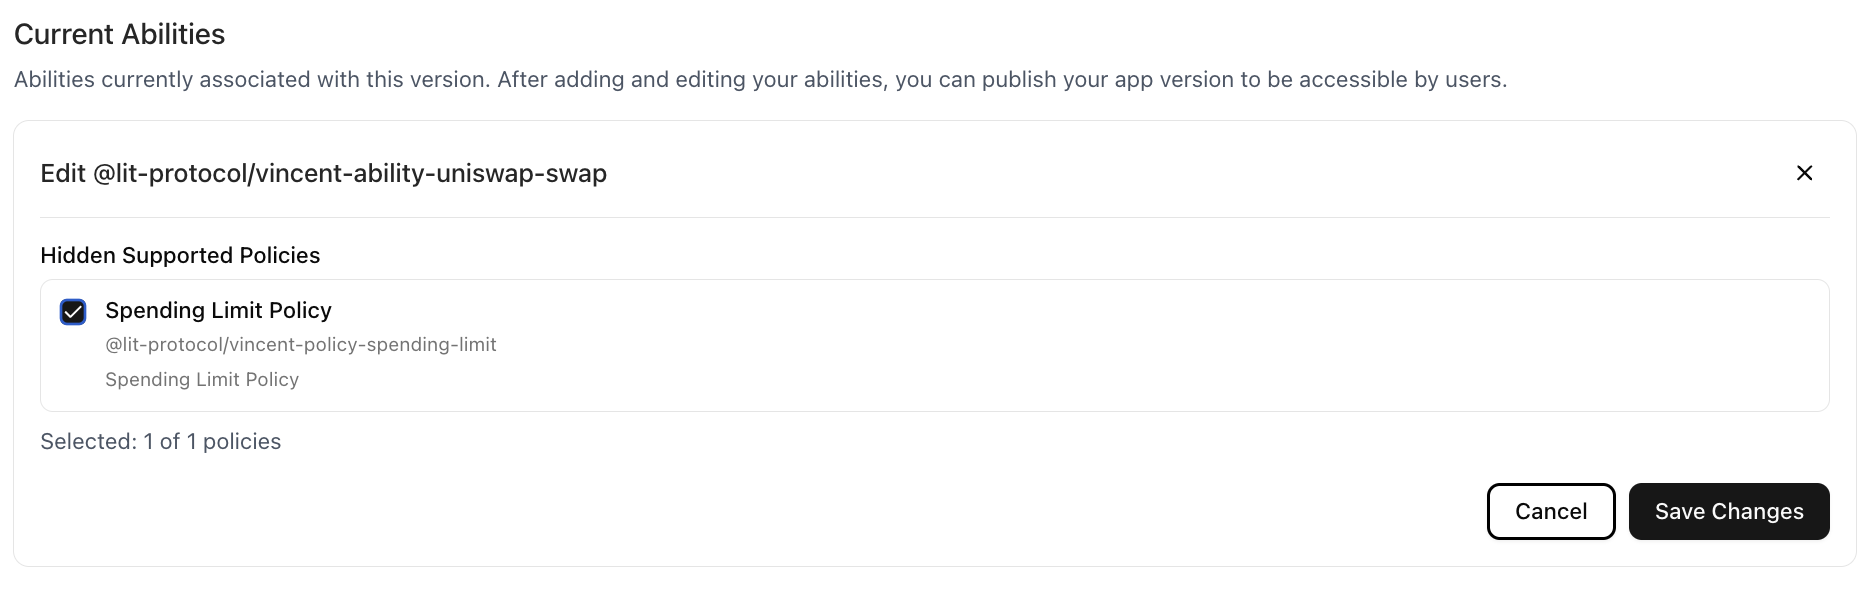
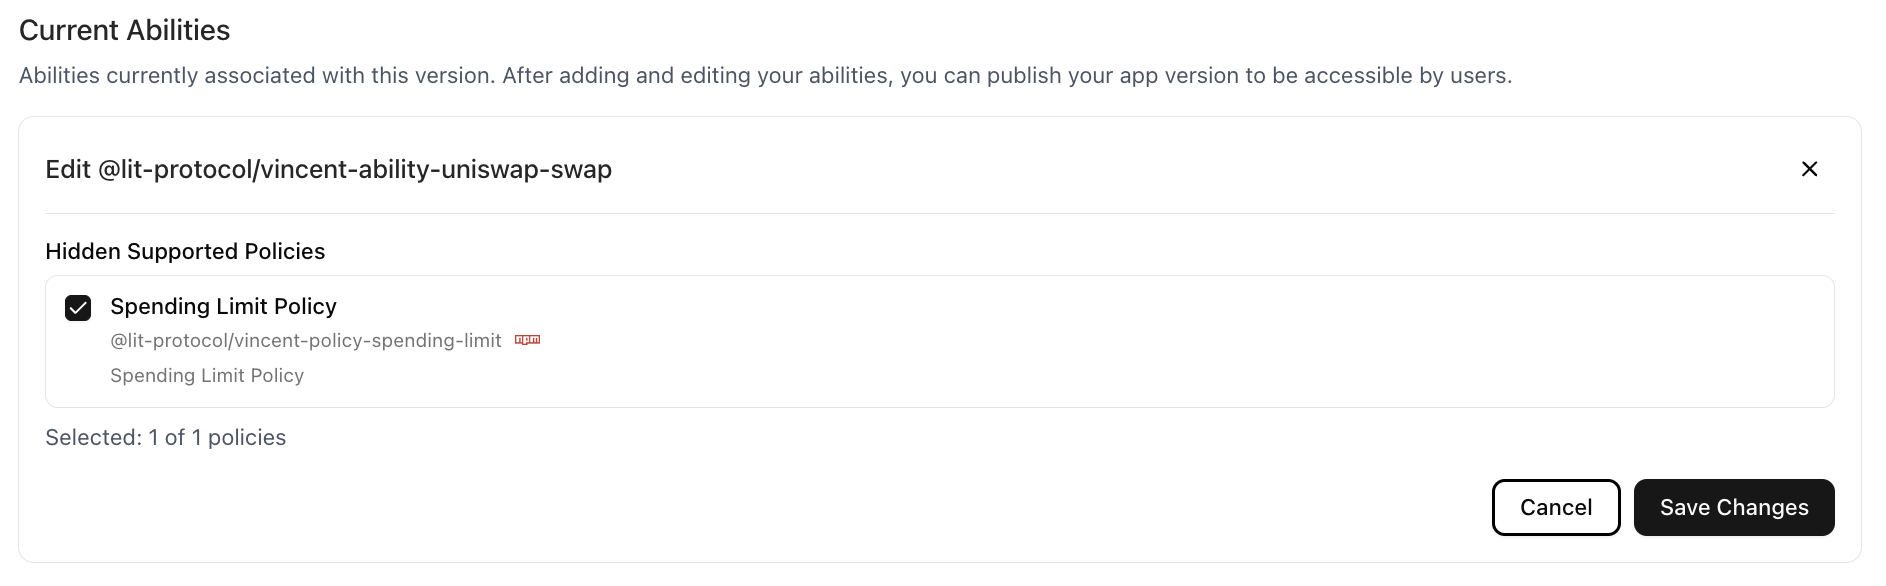
docs: refactor Upgrading Apps page and other formattings

diff --git a/docs/src/Developers/App-Agent-Developers/Upgrading-Apps.md b/docs/src/Developers/App-Agent-Developers/Upgrading-Apps.md
@@ -9,7 +9,7 @@ Vincent Apps are versioned to guarantee trust and transparency. Once a Vincent A
 
 ### Why This Matters
 
-Vincent Users don’t just delegate to your App, they delegate to a specific App Version. This Version defines the exact set of Abilities and Policies that your App can execute on their behalf, and can never be changed. This gives your Users confidence that the set of Abilities they've authorized, and are governing with their configured Policies, will never change without their explicit consent.
+Vincent Users don’t just delegate to your App, they delegate to a specific App Version. This Version defines the exact set of Abilities and Policies that your App can execute on their behalf, and can never be changed. This gives your Users confidence that the set of Abilities they've authorized, and the guardrails they've configured with Policies, will never change without their explicit consent.
 
 # When Should You Create a New Version?
 
@@ -26,87 +26,92 @@ There are some parts of your Vincent App that you can change without creating a 
 - The App Delegatees that are authorized to execute your App's Abilities for all App Versions
 - The authorized redirect URIs Users can be redirected to after they've authorized your App via the Vincent Connect page
 - The current Deployment Status of your App
+- App details like the name, description, and logo
 
 # How App Versioning Works
 
-Each Version of your App is stored on-chain in the Vincent App Registry smart contract, with no ability to modify the Version once it's been published to the Registry.
+Each App Version includes a finite list of Vincent Abilities the App can execute on behalf of Users that authorize the App Version, as well as the enabled Vincent Policies for each Ability that are used to govern the execution of the Abilities.
 
-Each App Version includes:
+App Versions have a two step flow before they're available to be delegated to by your Vincent App Users:
 
-- A finite list of Vincent Abilities the App can execute on behalf of Users that authorize the App Version
-- Each Policy that's available to be used with the App's selected Abilities, along with the Policy parameters that Users can configure
-
-> **Note:** Once published, App Versions cannot be modified. If you need to make any changes, you'll need to publish a new Version.
+1. **Create the App Version** - Covered further in the [Creating a New Version](#creating-a-new-version) section, this step initializes a new App Version off-chain, allowing you to specify the Vincent Abilities and their enabled Policies to be used by the Version.
+   - While the Version is saved only in the Vincent off-chain database, you are able to make changes to it's associated Abilities and enabled Policies.
+2. **Publish the App Version** - This step registers the App Version on-chain in the Vincent App Registry, making it available to be set as your Vincent App's currently active App Version, so your Vincent App Users can start delegating to it.
+   - Once published, the App Version is immutable and it's set of Abilities and Policies cannot be modified. If you need to make any changes, you'll need to create and publish a new Version.
 
 # Creating a New Version
-
-<div class="box info-box">
-  <p class="box-title info-box-title">
-    <span class="box-icon info-icon">Info</span> Before creating a new App Version
-  </p>
-  <p>Creating a new App Version requires that you have tokens on Lit Protocol's Yellowstone blockchain to pay for gas. You can use <a href="https://chronicle-yellowstone-faucet.getlit.dev/">this faucet</a> to get the Lit test tokens used to pay for creating the new App Version.</p>
-</div>
 
 To publish a new version of your App:
 
 1. Navigate to the [Vincent App Dashboard](https://dashboard.heyvincent.ai/)
-2. Select your App from the list
-3. Click the `Manage Ability Policies` button:
+2. Select the `App Details` menu item from the side bar menu
+3. Click the `Create App Version` button:
 
-![Manage Ability Policies Button](../images/manage-ability-policies-button.png)
+![Create App Version Button](../images/vincent-dashboard-app-dashboard-registered.png)
 
-You will then be shown the following screen which displays:
+This will display a form prompting you to describe what's changing in this new App Version. The details you provide here will be displayed to your Vincent App Users the next time they sign into your App using Vincent, so be descriptive and clear about what's changing so your users feel informed and confident in permitting delegation to the new App Version.
 
-- The current Abilities configured for your App
-- The Policies that are available to be used with each Ability
-- Each Policy parameter that can be configured by the User for each Policy:
+## Adding Abilities to the App Version
 
-![Manage Ability Policies Page](../images/manage-ability-policies-page.png)
+After submitting the form, you'll be redirected to the App Version dashboard where you can add the Vincent Abilities you'd like to enable for this App Version, as well as configure which Vincent Policies are enabled for each Ability.
 
-After updating the Abilities and Policies for your App, you'll need to click the `Publish New Version` button to publish the Version on-chain. This will prompt you to sign a transaction with your connected Vincent App Manager wallet.
+When you're finished configuring the App Version, navigate back to the App Version dashboard by clicking the new version number menu item in the side bar menu.
 
-After it's published, your new App Version will be immediately available for Vincent Users to authorize/upgrade to the next time they visit your App’s Vincent Connect Page.
+When you're ready, click the `Publish App Version` button to register this new App Version on-chain, making it available to set as your Vincent App's currently active App Version.
 
-# Managing App Versions
+# Setting the Active App Version
 
-Also on the Vincent App Overview page, you'll see an `Advanced Functions` button:
+After publishing a new App Version, it's not immediately set as your Vincent App's currently active App Version. This means existing Vincent App Users who've authorized a previous App Version will not be prompted to upgrade to the new version the next time they sign into your App using Vincent. Additionally, new Vincent App Users will always be permitting the version set as the active App Version.
 
-![Advanced Functions Button](../images/advanced-functions-button.png)
+So to prompt existing App Users to upgrade to the new version, and have new App Users permit the new version by default, you'll need to set the new version as your Vincent App's currently active App Version. This is done on your App's Dashboard which you can navigate to by clicking the `App Details` menu item in the side bar menu.
 
-Clicking this button will navigate you to the advanced settings for your App, including the option to manage your App Versions:
+On the App Dashboard, click the `Edit App` button to open a form where you can update the App's details, including the currently active App Version at the bottom of the form.
 
-![Manage App Versions](../images/manage-app-versions.png)
+![Edit App Form](../images/vincent-dashboard-edit-app-form.png)
 
-After clicking the `Manage Versions` button, you'll be given the option to select from your App Versions. You can see which Version are currently enabled, and which are disabled:
+Select the new version you just published, and click the `Update App` button to save the changes, and the new version you published will be set as your Vincent App's currently active App Version.
 
-![Enable App Version Dialog](../images/enable-app-version-dialog.png)
+# Enable/Disable App Versions
 
-Select the App Version you'd like to enable or disable, and click the `Enable Version` or `Disable Version` button to toggle the Version's status. This will prompt you to sign a transaction with your connected Vincent App Manager wallet to update the App's status in the on-chain App Registry.
+After publishing new App Versions and updating the App's active Version, you may want to disable previous App Versions to force your Vincent App Users to upgrade to newer versions.
 
-## What Does it Mean to Enable/Disable an App Version?
+This can be done by navigating to each App Version's dashboard (by clicking the version number menu item in the side bar menu) and clicking the `Disable App Version` button.
 
-Enabled App Versions mean that new Users can authorize the corresponding set of Abilities and Policies to be executed on their behalf, and existing Users of the enabled Version can continue to authenticate with Vincent for your App.
+![Disable App Version Button](../images/vincent-dashboard-app-dashboard-disable-button.png)
 
-New Users will never be prompted to authorize disabled App Versions, and existing Users who've previously permitted a now disabled Version will either be prompted to update to the latest enabled Version, or will no longer be able to authenticate with Vincent for your App if there is no newer App Version to upgrade to:
+Clicking this button will:
 
-> **Note:** A disabled App Version will also prohibit your App Delegatees from executing the corresponding Abilities on behalf of your Users.
+- Immediately disable the App Version in the Vincent App Registry
+- Prevent your Vincent App Users who have permitted this version from using your Vincent App
+  - These Users will be prompted to upgrade to the latest enabled App Version to continue using your App
+- Prevent your Vincent App Delegatees from executing Vincent Abilities for any Users who have authorized only the disabled App Version
 
-![Disabled App Version Upgrade Dialog](../images/disabled-app-version-upgrade-dialog.png)
+Once an App Version is disabled, the button will change to `Enable App Version`. Clicking this will re-enable the App Version, allowing your Vincent App Users who are still on that version to use it again, and permitting your Vincent App Delegatees to execute Vincent Abilities for that version.
 
-The latest enabled App Version is always the version that new Users will be prompted to authorize when they visit your App’s Vincent Connect Page.
+## What Do Your Vincent App Users See When Changing App Versions?
 
-If you have multiple enabled App Versions, existing Users who've permitted previous Versions are still able to use those Versions up until the point you disable it.
+If you create a new App Version and don't publish it, or create one and publish it, your Vincent App Users will not be notified of the new version.
 
-However, those Users will be prompted to upgrade to the latest enabled App Version the next time they visit your App’s Vincent Connect Page:
+It's not until you set the new version as your Vincent App's currently active App Version that your existing Vincent App Users will be prompted to upgrade to the new version the next time they sign into your App using Vincent.
 
-![Upgrade App Version Dialog](../images/upgrade-app-version-dialog.png)
+Here is what your App User's will see the next time they sign into your App using Vincent:
+
+![New App Version Available](../images/vincent-dashboard-new-version-available.png)
+
+Because the App User in this screenshot has permitted an App Version that is still enabled, they're just notified that there is a new version available to upgrade to, but they are not forced to upgrade, and continue to use the version they've already permitted.
+
+If you disable the App Version an App User has permitted, they will be prompted to upgrade to the latest enabled App Version to continue using your App:
+
+![Disabled App Version Upgrade Dialog](../images/vincent-dashboard-must-upgrade-version.png)
+
+If you disable the active App Version, but there's still an enabled App Version available, your App Users will either continue as usual if they are on an enabled Version, or be prompted to upgrade to the latest enabled App Version to continue using your App.
 
 # Best Practices
 
-- **Clearly communicate changes** to your Users before publishing new versions, especially if you’re introducing new Abilities or modifying existing functionality.
+- **Clearly communicate changes** in the descriptions of new App Versions, be descriptive and clear about what's changing so your users feel informed and confident in permitting delegation to the new App Version.
 - **Incremental changes** can be better than large overhauls, it makes it easier for Users to understand what's changed.
 - **Keep old versions active** during testing to allow for safe rollout and rollback if needed.
-- **Use `DEV`, `TEST`, and `PROD` App modes** appropriately to manage expectations of the stability of your App and whether it's still undergoing development.
+- **Use `DEV`, `TEST`, and `PROD` Deployment Statuses** appropriately to manage expectations of the stability of your App and whether it's still undergoing development.
 
 # Wrapping Up
 
@@ -123,7 +128,7 @@ As the App Manager, versioning gives you control over your App’s configuration
 ### Key Takeaways:
 
 - Users delegate to specific App Versions, not your App in general
-- To make changes to Abilities or Policies, create a new App Version using the [Vincent App Dashboard](https://dashboard.heyvincent.ai/)
+- To make changes to Abilities or their enabled Policies, create a new App Version using the [Vincent App Dashboard](https://dashboard.heyvincent.ai/)
 - You can enable/disable versions at any time to manage upgrades and deprecations
 - Only enabled App Versions can be authorized by Users and executed by your App Delegatees
 

diff --git a/docs/src/Developers/App-Agent-Developers/Creating-Apps.md b/docs/src/Developers/App-Agent-Developers/Creating-Apps.md
@@ -58,13 +58,13 @@ After clicking the `Create an app` button, you'll be directed to a form to defin
 
 The name will be used to identify your App within the Vincent ecosystem, and will be displayed to your users when they're consenting to delegate their Vincent Agent Wallets to your App.
 
-### Contract Email
+### Contact Email
 
-This is simply an email address your Vincent App Users can use to get in contact with you if they have any questions about your App.
+This is an email address your Vincent App Users can use to get in contact with you if they have any questions about your App.
 
 ### App Description
 
-The description is also displayed to your users, and should detail what your App is offering to do on their behalf. For example, if you App is offering to optimize yields on your user's deposits, you should provide details on the expected ROI, what protocols your App interacts with, and any other important information your users should know about your App.
+This description will be shown to your Vincent App Users when they are asked to delegate their Vincent Agent Wallets to your App. Clearly explain what your App will do on their behalf. For example, if your App helps optimize yield on user deposits, include details such as the expected ROI, which protocols your App interacts with, and any other important information your users should know before granting access.
 
 ### App User URL
 
@@ -78,7 +78,12 @@ The logo is displayed to your users when they're consenting to delegate their Vi
 
 When Vincent Users authenticate with Vincent and give consent to your Vincent App, they'll be given a Json Web Token (JWT) that contains information like their Agent Wallet ETH address, and the version of your App they've consented to delegate to.
 
-Vincent will only redirect your users to the redirect URIs you specify after they authenticate and sign in to your App. Only these endpoints are authorized to receive the JWT generated by Vincent.
+<div class="box info-box">
+  <p class="box-title info-box-title">
+    <span class="box-icon info-icon">Info</span> Note
+  </p>
+  <p>After signing into your Vincent App using Vincent, these redirect URIs are the only valid endpoints the App User can be redirected to, so that your App can receive the Vincent JWT.</p>
+</div>
 
 ### Delegatee Addresses
 
@@ -102,7 +107,7 @@ After filling in your App's details and clicking the `Create App` button, you'll
 
 In Vincent, App Versions are immutable once published and made available to your Vincent App Users to delegate to. This is a security feature that ensures Vincent App Users always know exactly which Vincent Abilities they've consented to delegate to your App, and they can never be changed without the App User consenting to a new version of your App.
 
-So each App Version's Vincent Abilities are locked in, and you'll need to create and publish a new version of your App to add or remove Abilities.
+Because each App Version's Vincent Abilities are immutable once published, you'll need to create and publish a new version of your App to add or remove Abilities.
 
 > **Note:** Learn more about App Versioning and upgrading your App in the [Upgrading Vincent Apps](./Upgrading-Apps.md) guide.
 
@@ -126,7 +131,9 @@ For example, we've added the `@lit-protocol/vincent-ability-uniswap-swap` Abilit
 
 ![Enable Policies for Ability](../images/vincent-dashboard-enable-policy.png)
 
-Looking up the [Policy package on NPM](https://www.npmjs.com/package/@lit-protocol/vincent-policy-spending-limit), we can see that the Policy allows Vincent App Users to configure a maximum daily spending limit for the Ability. So when a Vincent App User is delegating access to their Vincent Agent Wallet to your App to execute the `@lit-protocol/vincent-ability-uniswap-swap` Ability, they'll be able to configure a maximum daily spending limit that restricts how much USD your App is permitted to swap on their behalf using the Ability.
+Clicking the NPM logo for the Policy will take us to the Policy's NPM package page, where we can see that the Policy allows Vincent App Users to configure a maximum daily spending limit for the Ability.
+
+So when a Vincent App User is delegating access to their Vincent Agent Wallet to your App to execute the `@lit-protocol/vincent-ability-uniswap-swap` Ability, they'll be able to configure a maximum daily spending limit that restricts how much USD your App is permitted to swap on their behalf using the Ability.
 
 # Publishing your App Version
 
